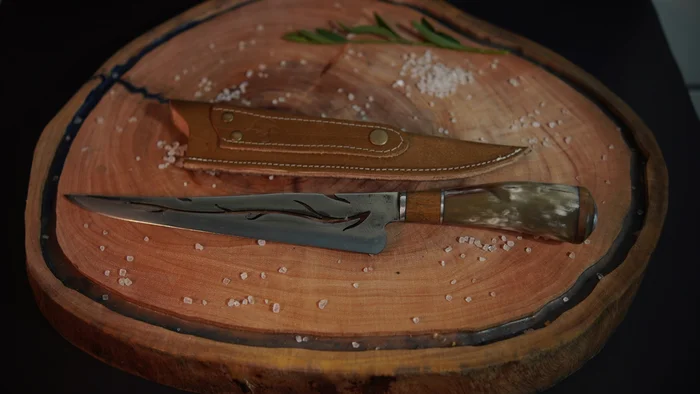
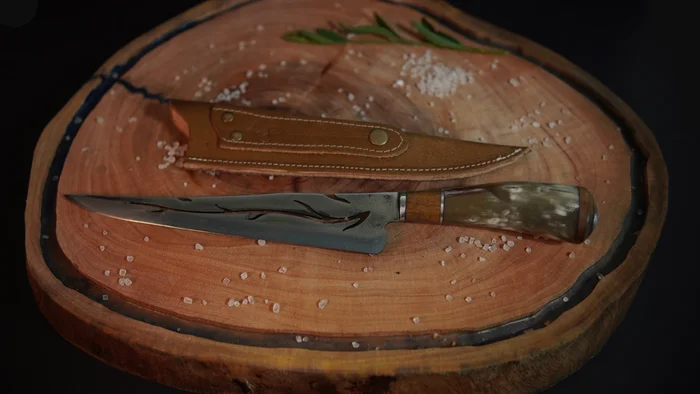
Atualiza fotos de 5 facas carbono com as versões definitivas
Bloco de madeira, chifre claro (Tatú), gaúcho laçando, osso queimado
e chama vazada — troca as fotos provisórias por fotos novas dessas
mesmas peças, no padrão tábua de madeira.

Claude-Session: https://claude.ai/code/session_01AKpiPHNorCrjtfgXgct26U

Changed region(s): [[0.93, 0.0, 1.0, 0.3046]]

diff --git a/index.html b/index.html
@@ -20,9 +20,9 @@
 <link rel="preconnect" href="https://fonts.googleapis.com">
 <link rel="preconnect" href="https://fonts.gstatic.com" crossorigin>
 <link rel="stylesheet" href="https://fonts.googleapis.com/css2?family=Fraunces:ital,opsz,wght@0,9..144,300;0,9..144,400;1,9..144,300&family=Work+Sans:wght@400;500;600&display=swap">
-<link rel="stylesheet" href="css/base.css?v=mug46w8f">
-<link rel="stylesheet" href="css/app.css?v=mug46w8f">
-<link rel="stylesheet" href="css/home.css?v=mug46w8f">
+<link rel="stylesheet" href="css/base.css?v=mug4jjgi">
+<link rel="stylesheet" href="css/app.css?v=mug4jjgi">
+<link rel="stylesheet" href="css/home.css?v=mug4jjgi">
 <link rel="preload" as="image" href="img/trio-osso.webp" imagesrcset="img/trio-osso@half.webp 700w, img/trio-osso.webp 1400w" imagesizes="(max-width: 900px) 100vw, 50vw" fetchpriority="high">
 <script type="module" src="js/app.js"></script>
 <script type="module" src="js/home.js"></script>

diff --git a/cuidados.html b/cuidados.html
@@ -17,10 +17,10 @@
 <link rel="preconnect" href="https://fonts.googleapis.com">
 <link rel="preconnect" href="https://fonts.gstatic.com" crossorigin>
 <link rel="stylesheet" href="https://fonts.googleapis.com/css2?family=Fraunces:ital,opsz,wght@0,9..144,300;0,9..144,400;1,9..144,300&family=Work+Sans:wght@400;500;600&display=swap">
-<link rel="stylesheet" href="css/base.css?v=mug46w8f">
-<link rel="stylesheet" href="css/app.css?v=mug46w8f">
-<link rel="stylesheet" href="css/home.css?v=mug46w8f">
-<link rel="stylesheet" href="css/catalogo.css?v=mug46w8f">
+<link rel="stylesheet" href="css/base.css?v=mug4jjgi">
+<link rel="stylesheet" href="css/app.css?v=mug4jjgi">
+<link rel="stylesheet" href="css/home.css?v=mug4jjgi">
+<link rel="stylesheet" href="css/catalogo.css?v=mug4jjgi">
 <script type="module" src="js/app.js"></script>
 <script type="module" src="js/cuidados.js"></script>
 </head>

diff --git a/empresarial.html b/empresarial.html
@@ -17,10 +17,10 @@
 <link rel="preconnect" href="https://fonts.googleapis.com">
 <link rel="preconnect" href="https://fonts.gstatic.com" crossorigin>
 <link rel="stylesheet" href="https://fonts.googleapis.com/css2?family=Fraunces:ital,opsz,wght@0,9..144,300;0,9..144,400;1,9..144,300&family=Work+Sans:wght@400;500;600&display=swap">
-<link rel="stylesheet" href="css/base.css?v=mug46w8f">
-<link rel="stylesheet" href="css/app.css?v=mug46w8f">
-<link rel="stylesheet" href="css/home.css?v=mug46w8f">
-<link rel="stylesheet" href="css/catalogo.css?v=mug46w8f">
+<link rel="stylesheet" href="css/base.css?v=mug4jjgi">
+<link rel="stylesheet" href="css/app.css?v=mug4jjgi">
+<link rel="stylesheet" href="css/home.css?v=mug4jjgi">
+<link rel="stylesheet" href="css/catalogo.css?v=mug4jjgi">
 <script type="module" src="js/app.js"></script>
 <script type="module" src="js/gravacao.js"></script>
 </head>

diff --git a/faca-de-carbono.html b/faca-de-carbono.html
@@ -17,10 +17,10 @@
 <link rel="preconnect" href="https://fonts.googleapis.com">
 <link rel="preconnect" href="https://fonts.gstatic.com" crossorigin>
 <link rel="stylesheet" href="https://fonts.googleapis.com/css2?family=Fraunces:ital,opsz,wght@0,9..144,300;0,9..144,400;1,9..144,300&family=Work+Sans:wght@400;500;600&display=swap">
-<link rel="stylesheet" href="css/base.css?v=mug46w8f">
-<link rel="stylesheet" href="css/app.css?v=mug46w8f">
-<link rel="stylesheet" href="css/home.css?v=mug46w8f">
-<link rel="stylesheet" href="css/catalogo.css?v=mug46w8f">
+<link rel="stylesheet" href="css/base.css?v=mug4jjgi">
+<link rel="stylesheet" href="css/app.css?v=mug4jjgi">
+<link rel="stylesheet" href="css/home.css?v=mug4jjgi">
+<link rel="stylesheet" href="css/catalogo.css?v=mug4jjgi">
 <script type="module" src="js/app.js"></script>
 <script type="module" src="js/catalogo.js"></script>
 </head>

diff --git a/faca-de-inox.html b/faca-de-inox.html
@@ -17,10 +17,10 @@
 <link rel="preconnect" href="https://fonts.googleapis.com">
 <link rel="preconnect" href="https://fonts.gstatic.com" crossorigin>
 <link rel="stylesheet" href="https://fonts.googleapis.com/css2?family=Fraunces:ital,opsz,wght@0,9..144,300;0,9..144,400;1,9..144,300&family=Work+Sans:wght@400;500;600&display=swap">
-<link rel="stylesheet" href="css/base.css?v=mug46w8f">
-<link rel="stylesheet" href="css/app.css?v=mug46w8f">
-<link rel="stylesheet" href="css/home.css?v=mug46w8f">
-<link rel="stylesheet" href="css/catalogo.css?v=mug46w8f">
+<link rel="stylesheet" href="css/base.css?v=mug4jjgi">
+<link rel="stylesheet" href="css/app.css?v=mug4jjgi">
+<link rel="stylesheet" href="css/home.css?v=mug4jjgi">
+<link rel="stylesheet" href="css/catalogo.css?v=mug4jjgi">
 <script type="module" src="js/app.js"></script>
 <script type="module" src="js/catalogo.js"></script>
 </head>

diff --git a/faca-fulltang.html b/faca-fulltang.html
@@ -17,10 +17,10 @@
 <link rel="preconnect" href="https://fonts.googleapis.com">
 <link rel="preconnect" href="https://fonts.gstatic.com" crossorigin>
 <link rel="stylesheet" href="https://fonts.googleapis.com/css2?family=Fraunces:ital,opsz,wght@0,9..144,300;0,9..144,400;1,9..144,300&family=Work+Sans:wght@400;500;600&display=swap">
-<link rel="stylesheet" href="css/base.css?v=mug46w8f">
-<link rel="stylesheet" href="css/app.css?v=mug46w8f">
-<link rel="stylesheet" href="css/home.css?v=mug46w8f">
-<link rel="stylesheet" href="css/catalogo.css?v=mug46w8f">
+<link rel="stylesheet" href="css/base.css?v=mug4jjgi">
+<link rel="stylesheet" href="css/app.css?v=mug4jjgi">
+<link rel="stylesheet" href="css/home.css?v=mug4jjgi">
+<link rel="stylesheet" href="css/catalogo.css?v=mug4jjgi">
 <script type="module" src="js/app.js"></script>
 <script type="module" src="js/catalogo.js"></script>
 </head>

diff --git a/contato.html b/contato.html
@@ -17,10 +17,10 @@
 <link rel="preconnect" href="https://fonts.googleapis.com">
 <link rel="preconnect" href="https://fonts.gstatic.com" crossorigin>
 <link rel="stylesheet" href="https://fonts.googleapis.com/css2?family=Fraunces:ital,opsz,wght@0,9..144,300;0,9..144,400;1,9..144,300&family=Work+Sans:wght@400;500;600&display=swap">
-<link rel="stylesheet" href="css/base.css?v=mug46w8f">
-<link rel="stylesheet" href="css/app.css?v=mug46w8f">
-<link rel="stylesheet" href="css/home.css?v=mug46w8f">
-<link rel="stylesheet" href="css/catalogo.css?v=mug46w8f">
+<link rel="stylesheet" href="css/base.css?v=mug4jjgi">
+<link rel="stylesheet" href="css/app.css?v=mug4jjgi">
+<link rel="stylesheet" href="css/home.css?v=mug4jjgi">
+<link rel="stylesheet" href="css/catalogo.css?v=mug4jjgi">
 <script type="module" src="js/app.js"></script>
 <script type="module" src="js/contato.js"></script>
 </head>

diff --git a/sacola.html b/sacola.html
@@ -12,10 +12,10 @@
 <link rel="preconnect" href="https://fonts.googleapis.com">
 <link rel="preconnect" href="https://fonts.gstatic.com" crossorigin>
 <link rel="stylesheet" href="https://fonts.googleapis.com/css2?family=Fraunces:ital,opsz,wght@0,9..144,300;0,9..144,400;1,9..144,300&family=Work+Sans:wght@400;500;600&display=swap">
-<link rel="stylesheet" href="css/base.css?v=mug46w8f">
-<link rel="stylesheet" href="css/app.css?v=mug46w8f">
-<link rel="stylesheet" href="css/home.css?v=mug46w8f">
-<link rel="stylesheet" href="css/catalogo.css?v=mug46w8f">
+<link rel="stylesheet" href="css/base.css?v=mug4jjgi">
+<link rel="stylesheet" href="css/app.css?v=mug4jjgi">
+<link rel="stylesheet" href="css/home.css?v=mug4jjgi">
+<link rel="stylesheet" href="css/catalogo.css?v=mug4jjgi">
 <script type="module" src="js/app.js"></script>
 </head>
 <body>

diff --git a/404.html b/404.html
@@ -10,9 +10,9 @@
 <link rel="preconnect" href="https://fonts.googleapis.com">
 <link rel="preconnect" href="https://fonts.gstatic.com" crossorigin>
 <link rel="stylesheet" href="https://fonts.googleapis.com/css2?family=Fraunces:ital,opsz,wght@0,9..144,300;0,9..144,400;1,9..144,300&family=Work+Sans:wght@400;500;600&display=swap">
-<link rel="stylesheet" href="css/base.css?v=mug46w8f">
-<link rel="stylesheet" href="css/app.css?v=mug46w8f">
-<link rel="stylesheet" href="css/home.css?v=mug46w8f">
+<link rel="stylesheet" href="css/base.css?v=mug4jjgi">
+<link rel="stylesheet" href="css/app.css?v=mug4jjgi">
+<link rel="stylesheet" href="css/home.css?v=mug4jjgi">
 <script type="module" src="js/app.js"></script>
 </head>
 <body>
